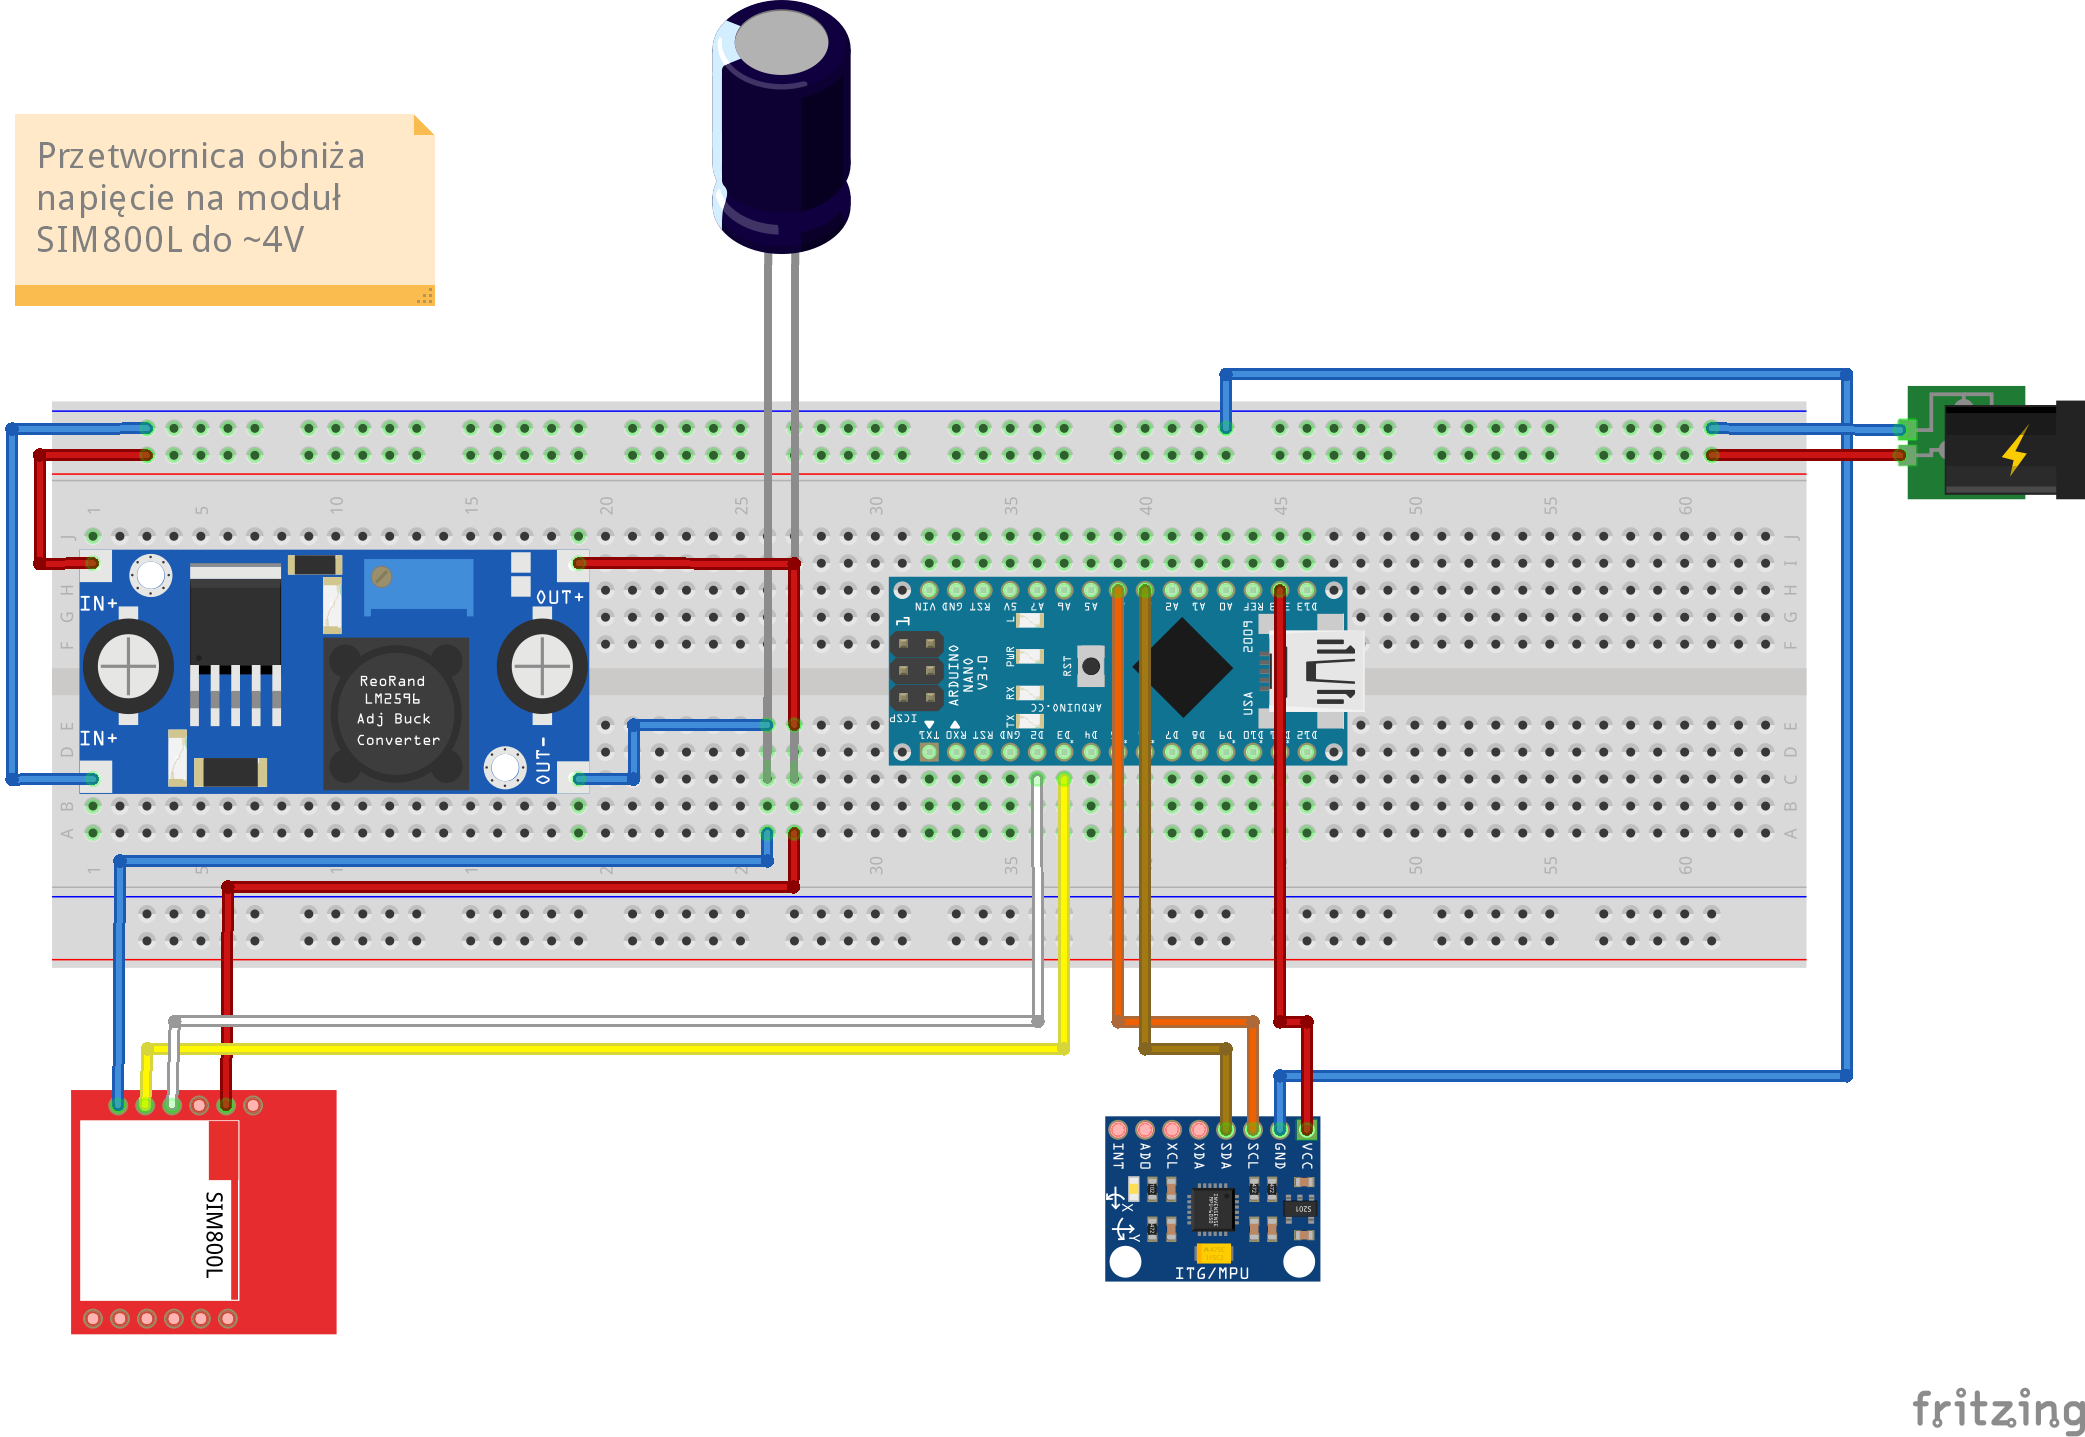
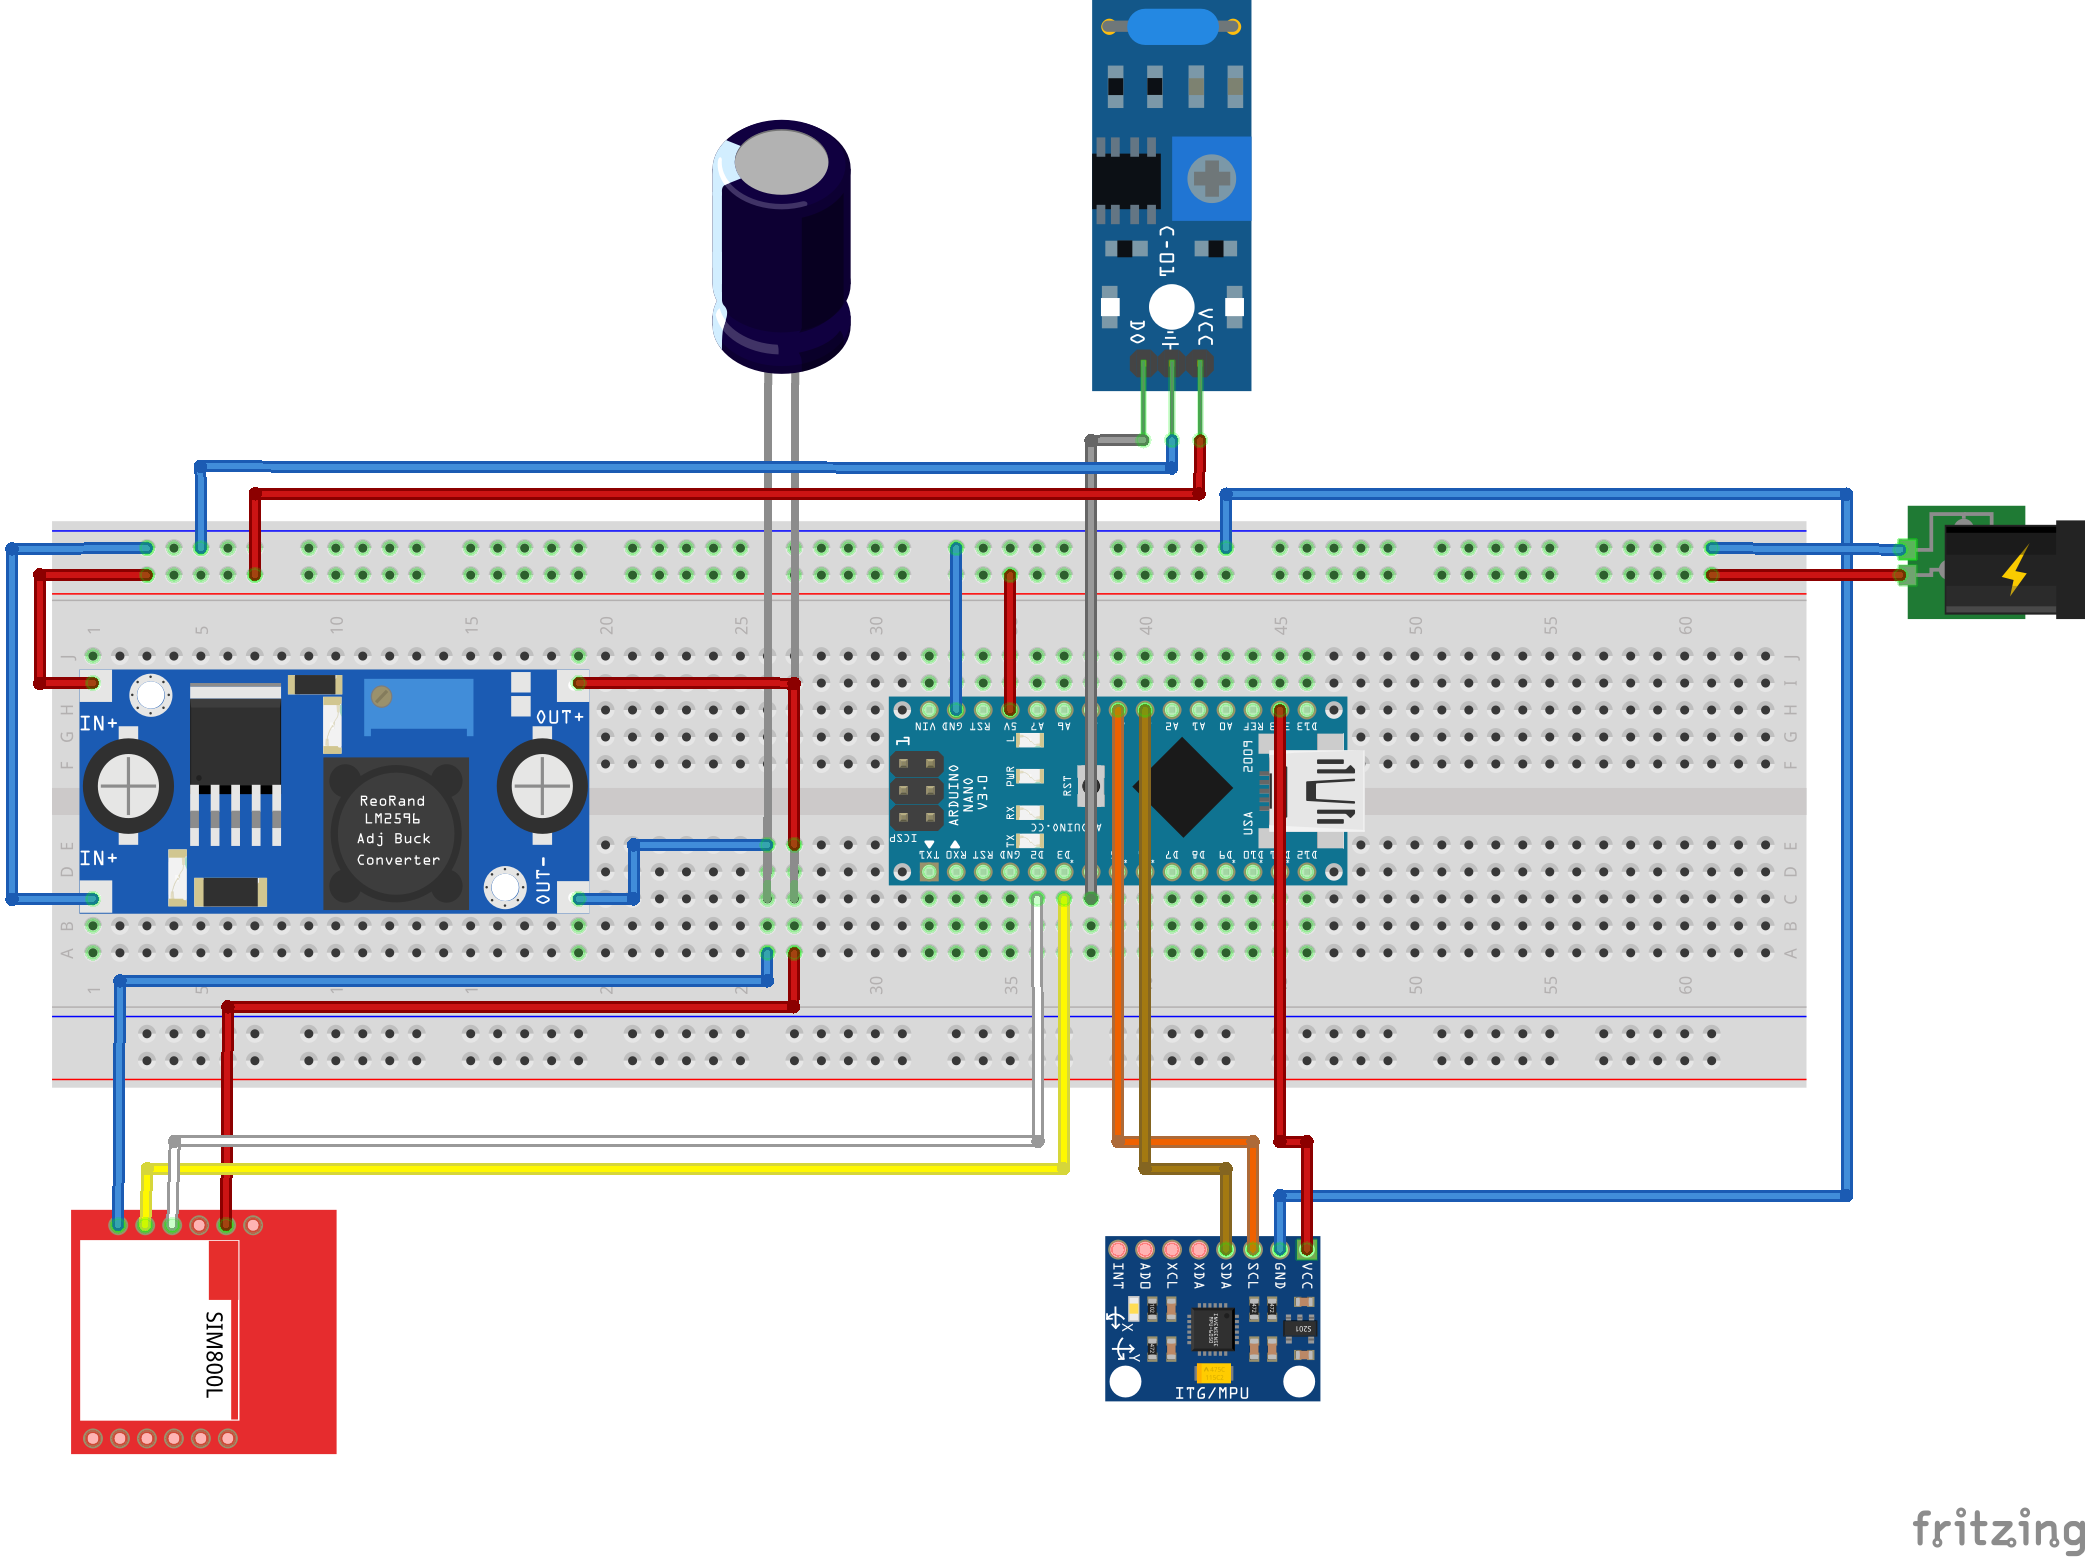
Update readme and schema

diff --git a/README.md b/README.md
@@ -1,15 +1,16 @@
 # MotoAlarm #
 
-Projekt alarmu do motocykla\
-W momencie wykrycia zmiany położenia wykonuje połączenie telefoniczne\
-Zarządzany komendami sms oraz zasilany powerbankiem
+Motorcycle alarm design\
+After change position it make phone call\
+Managed by SMS commands and powered by a powerbank
 
-### Użyte podzespoły ###
+## Components
 
 * Arduino Nano
-* Przetwornica LM2596
-* Moduł SIM800L
-* Kondensator 1000uf
-* 3-Osiowy Akcelerometr i Żyroskop I2C MPU-6050 
+* Boost Converter LM2596
+* SIM800L module
+* Capacitor 1000uf
+* 3-Axis Accelerometer and Gyroscope I2C MPU-6050
 
-![MotoAlarm](https://user-images.githubusercontent.com/35919087/139311320-1f29ab61-87db-46ee-8190-13047c082c25.png)
+## Device schema
+![MotoAlarm](https://user-images.githubusercontent.com/35919087/205516365-24ba7d95-e0a2-43a4-a332-24dbeae9e3c0.png)
